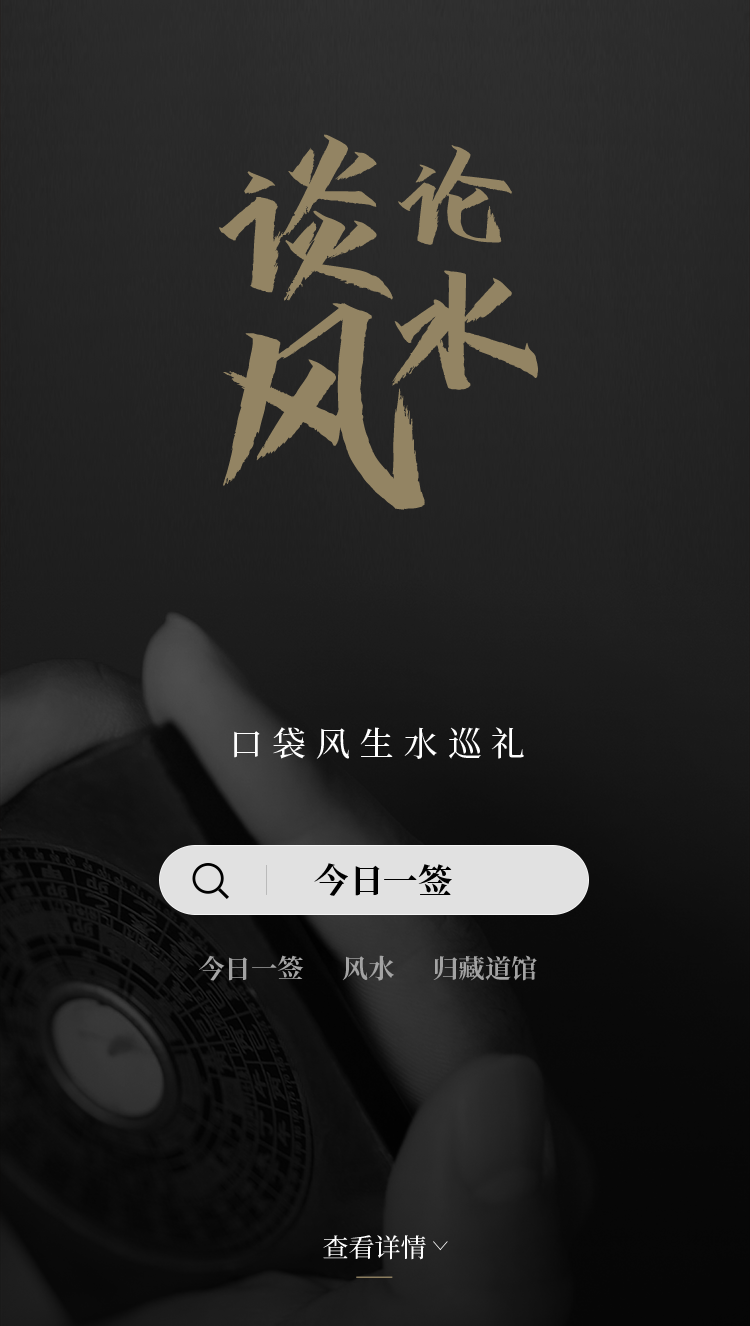
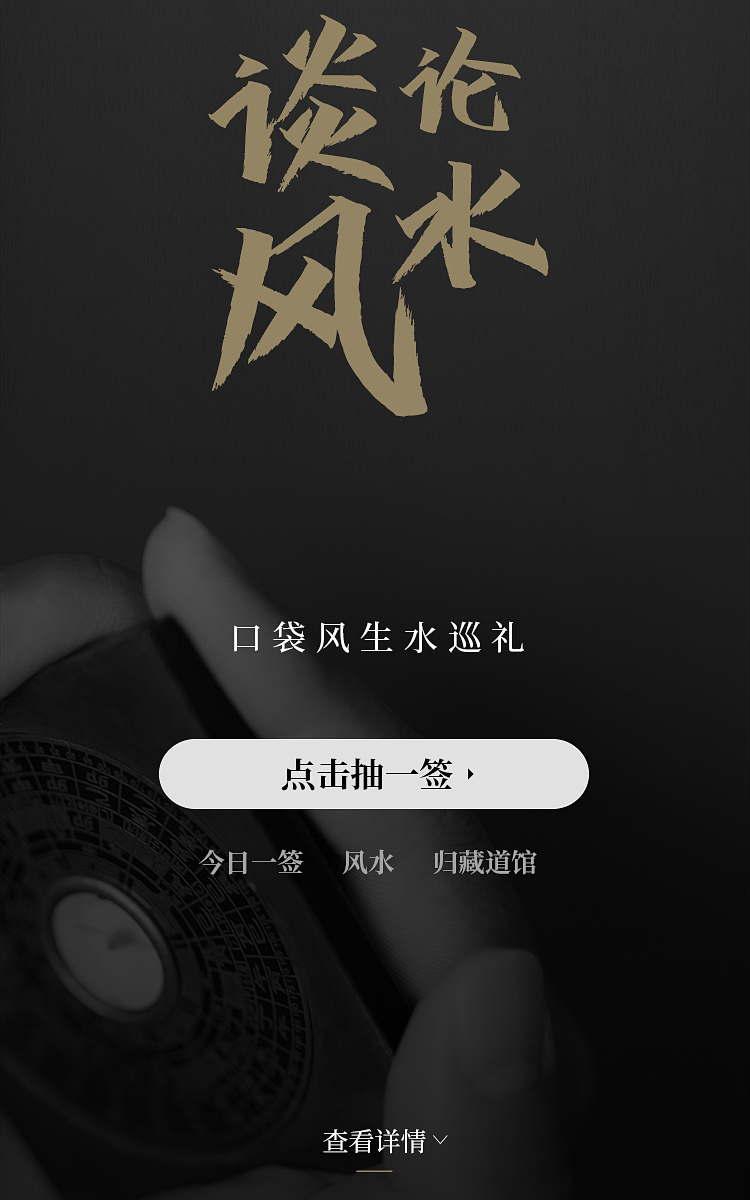
change

diff --git a/pages/home/home.js b/pages/home/home.js
@@ -19,7 +19,7 @@ Page({
     date: '', //picker to submit
     timeArr: [], //picker
     dayHours: [1, 2, 3, 4, 5, 6, 7, 8, 9, 10, 12, 13, 14, 15, 16, 17, 18, 19, 20, 21, 22, 23, 24],
-    index: 0,
+    index: "",
     modalHidden: true
   },
 
@@ -27,8 +27,17 @@ Page({
    * 生命周期函数--监听页面加载
    */
   onLoad: function(options) {
-    wx.hideTabBar()
-    global.setNowtime(this);
+    wx.getSystemInfo({
+      success:(res)=> {
+        // debugger
+        let nowHeig = res.windowWidth;
+        this.setData({
+          height:nowHeig
+        })
+      },
+    })
+    // wx.hideTabBar()
+    // global.setNowtime(this);
     this.getTime();
   },
 
@@ -50,9 +59,7 @@ Page({
    * 生命周期函数--监听页面隐藏
    */
   onHide: function() {
-    wx.showTabBar({
-
-    })
+    
   },
 
   /**
@@ -76,11 +83,11 @@ Page({
 
   },
   onPageScroll:function(e){
-    if(e.scrollTop>=600){
-      wx.showTabBar()
-    }else{
-      wx.hideTabBar()
-    }
+    // if(e.scrollTop){
+    //   wx.showTabBar()
+    // }else{
+    //   wx.hideTabBar()
+    // }
   },
 
   /**
@@ -109,10 +116,10 @@ Page({
   // },
   lookDetail() {
     wx.pageScrollTo({
-      scrollTop: 610,
+      scrollTop: 600,
       duration: 300,
       complete() {
-        wx.showTabBar()
+        // wx.showTabBar()
       }
     })
   },
@@ -198,7 +205,6 @@ Page({
     // }
   },
   modalConfirm() {
-    debugger
     this.setData({
       modalHidden: true
     })

diff --git a/pages/jryq/jryq.js b/pages/jryq/jryq.js
@@ -1,5 +1,7 @@
 // pages/jryq/jryq.js
-import { global } from '../../utils/globalFunc.js';
+import {
+  global
+} from '../../utils/globalFunc.js';
 import {
   http,
   baseUrl
@@ -11,19 +13,19 @@ Page({
    */
   data: {
     jryq: baseUrl + '/attachment/jryq',
-    yourName:'',
+    yourName: '',
     date: '', //picker to submit
     timeArr: [], //picker
     dayHours: [1, 2, 3, 4, 5, 6, 7, 8, 9, 10, 12, 13, 14, 15, 16, 17, 18, 19, 20, 21, 22, 23, 24],
-    index: 0,
-    modalHidden:true
+    index: "",
+    modalHidden: true
   },
 
   /**
    * 生命周期函数--监听页面加载
    */
   onLoad: function(options) {
-    global.setNowtime(this);
+    // global.setNowtime(this);
   },
 
   /**
@@ -73,6 +75,18 @@ Page({
    */
   onShareAppMessage: function() {
 
+  },
+  bindDateChange(e) {
+    let timeArr = e.detail.value.split("-");
+    this.setData({
+      date: e.detail.value,
+      timeArr: timeArr
+    })
+  },
+  bindHourPicker(e) {
+    this.setData({
+      index: e.detail.value
+    })
   },
   draw() {
     let yourName = this.data.yourName.replace(/\s+/g, ""); //去除所有空格

diff --git a/pages/fs/fs.js b/pages/fs/fs.js
@@ -22,7 +22,7 @@ Page({
     date: '', //picker to submit
     timeArr: [], //picker
     dayHours: [1, 2, 3, 4, 5, 6, 7, 8, 9, 10, 12, 13, 14, 15, 16, 17, 18, 19, 20, 21, 22, 23, 24],
-    index: 0,
+    index: "",
     orientation: ["东方", "东南方", "南方", "西南方", "西方", "西北方", "北方", "东北方"],
     bedroom: 0,
     door: 1,
@@ -33,7 +33,7 @@ Page({
    * 生命周期函数--监听页面加载
    */
   onLoad: function(options) {
-    global.setNowtime(this);
+    // global.setNowtime(this);
     this.compass()
   },
 
